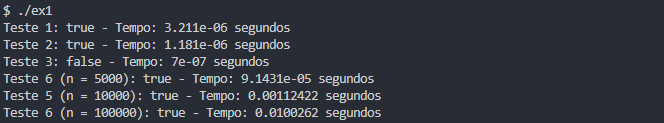
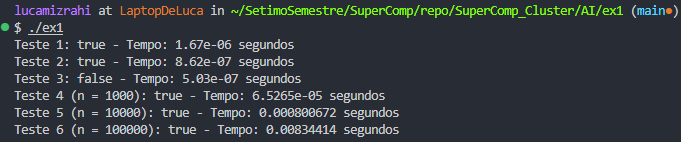
ex1

Changed region(s): [[0.0, 0.1463, 0.6024, 0.8537], [0.0, 0.0244, 1.0, 0.1463], [0.0, 0.878, 0.6024, 0.9756]]

diff --git a/AI/ex1/ex1.cpp b/AI/ex1/ex1.cpp
@@ -84,7 +84,7 @@ int main() {
     bool result4 = subsetSum(set4, target4);
     auto end4 = std::chrono::high_resolution_clock::now();
     std::chrono::duration<double> elapsed4 = end4 - start4;
-    std::cout << "Teste 6 (n = 5000): " << (result4 ? "true" : "false") << " - Tempo: " << elapsed4.count() << " segundos" << std::endl;
+    std::cout << "Teste 4 (n = 1000): " << (result4 ? "true" : "false") << " - Tempo: " << elapsed4.count() << " segundos" << std::endl;
 
     // Teste 5 com n = 10000
     auto start5 = std::chrono::high_resolution_clock::now();
